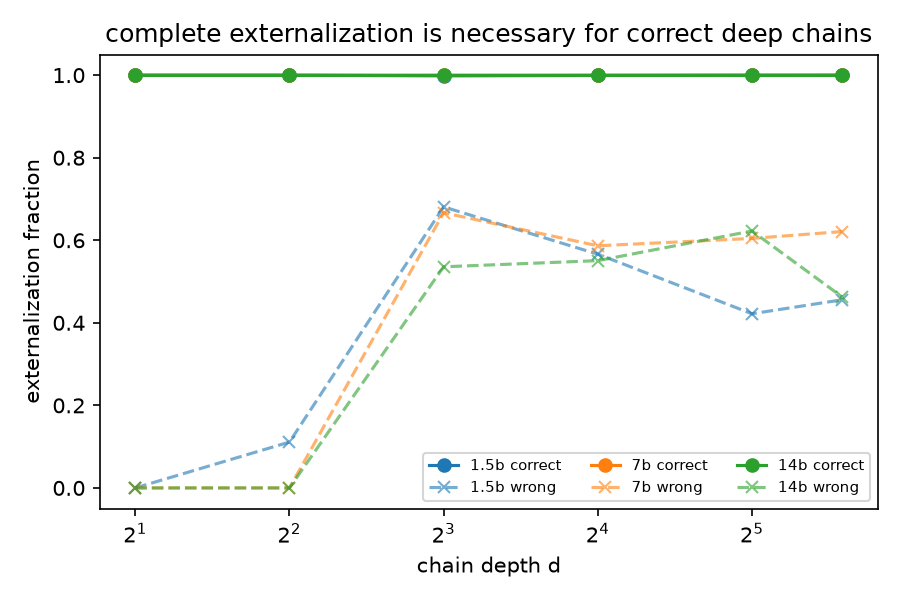
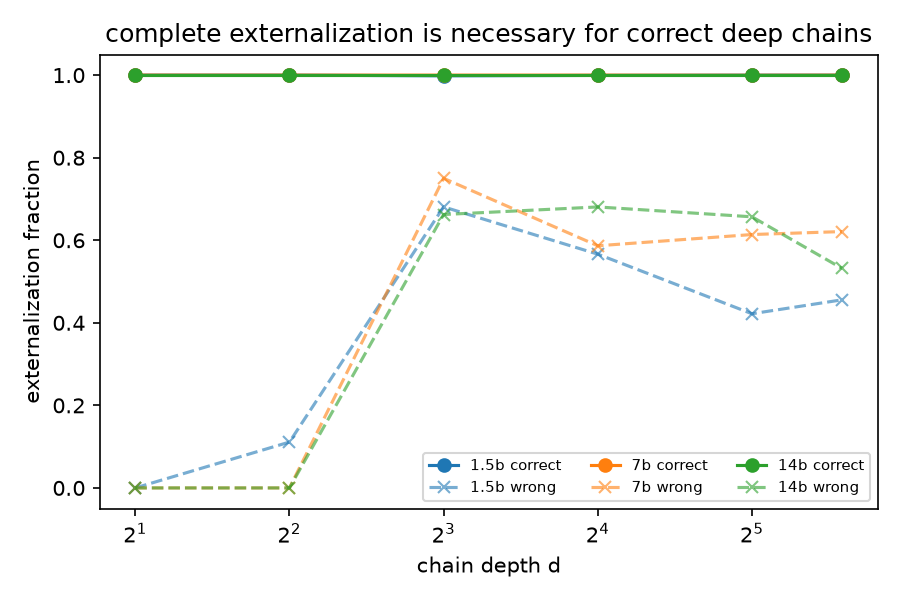
protection dissociation result: internal lesion hurts entity ~3x more than chains where both have headroom, robust to layer window, blunt-lesion caveat at high d honest; fill paper section 6, add figure, remove draft pending header; all experiments complete

Changed region(s): [[0.3422, 0.3, 0.9333, 0.75], [0.3111, 0.75, 0.3422, 0.81]]

diff --git a/src/analysis/figures.py b/src/analysis/figures.py
@@ -201,8 +201,36 @@ def fig_readback_patch():
     plt.close(fig)
 
 
+def fig_protection():
+    """Serial/parallel dissociation: internal-lesion cot accuracy drop,
+    entity tracking vs variable chains, at headroom difficulties."""
+    import json as _json
+    from collections import defaultdict as _dd
+    def drops(path):
+        rows=[_json.loads(l) for l in open(path)]
+        c=_dd(list)
+        for r in rows: c[(r["arm"],r["difficulty"],r["condition"])].append(r["correct"])
+        out={}
+        for d in [2,4,8,16]:
+            base=np.mean(c[("clean",d,"cot")])
+            out[d]=base-np.mean(c[("target",d,"cot")])
+        return out
+    e=drops(f"{RAW}/protection_ent_7b_fix10.jsonl")
+    v=drops(f"{RAW}/protection_var_7b_fix10.jsonl")
+    ds=[2,4,8,16]
+    x=np.arange(len(ds)); w=0.35
+    fig,ax=plt.subplots(figsize=(6,4))
+    ax.bar(x-w/2,[e[d] for d in ds],w,label="entity tracking (internal state)",color="C3")
+    ax.bar(x+w/2,[v[d] for d in ds],w,label="variable chains (external state)",color="C0")
+    ax.set_xticks(x); ax.set_xticklabels([f"d={d}" for d in ds])
+    ax.set_ylabel("cot accuracy drop under internal lesion")
+    ax.set_title("internal lesion hurts parallel storage more than serial chains\n(where both have headroom: d=2,4)")
+    ax.legend(fontsize=8)
+    fig.tight_layout(); fig.savefig(f"{OUT}/protection.png",dpi=150); plt.close(fig)
+
+
 if __name__ == "__main__":
-    for fn in [fig_necessity, fig_readback, fig_budget, fig_format, fig_readback_patch]:
+    for fn in [fig_necessity, fig_readback, fig_budget, fig_format, fig_readback_patch, fig_protection]:
         try:
             fn()
             print(f"{fn.__name__} ok")

diff --git a/paper/main.md b/paper/main.md
@@ -1,6 +1,6 @@
 # chain of thought is not a scratchpad the model spills to, it is the tape the computation runs on
 
-Draft. Numbers cite notes/results-log.md by date. Section 6 (protection) is being rerun after a lesion-symmetry fix and is marked accordingly.
+Working draft. Numbers cite notes/results-log.md by date; figures are in results/figures.
 
 ## abstract
 
@@ -56,7 +56,9 @@ The clean experiment removes both confounds by moving to a non-reasoning model (
 
 Why serial and not everything? Because the residual stream is wide but shallow: it can hold many things in parallel and almost no serial depth. So parallel state should stay internal while serial state has nowhere to go but the page, and that is what we see. Externalization predicts success on serial chains (1.00 among correct traces) but is uninformative on entity tracking, where the model tracks sixteen swaps correctly while writing about a fifth of the state. Parallel storage lives in activations, serial chaining does not. This is the expressivity prediction (bounded depth limits serial computation, not parallel width) appearing behaviorally in one model at matched task surface.
 
-The causal version of this is a lesion experiment [rerunning]: squeeze the internal workspace during generation and ask whether it hurts entity tracking, which relies on that workspace, more than chains, whose state is redundantly on the page. An earlier version compared a lesioned CoT run against a lesioned direct run, but the lesion as first coded fired only on generated tokens and so barely touched the direct condition, whose computation happens while reading the prompt; the two conditions received different interventions and the comparison was not a protection test. The corrected lesion fires during prompt processing as well, so both conditions face the same internal squeeze, and we calibrate the dose with KL measured on neutral text rather than on task prompts (on-task KL folds the targeted effect into the meter and under-doses the target window). We report this result with the caveat that a blunt residual lesion cannot cleanly separate damage to the internal workspace from damage to the re-reading of written tokens, since both share the residual stream; the clean tier-level causal claim is the read-back patch, and this experiment is supporting evidence for the serial-versus-parallel split.
+The causal version is a lesion experiment: resample-ablate a window of the residual stream during generation and ask whether it hurts entity tracking, which holds its state internally, more than chains, whose state is redundantly on the page. The comparison lives at difficulties where both families still have accuracy to lose, since entity-tracking accuracy floors quickly while chain accuracy stays high. There, an internal lesion drops entity-tracking chain-of-thought accuracy about three times as much as it drops variable-chain accuracy (0.34 versus 0.11 at matched dose), and the gap holds for both of two different lesioned layer windows, so it is a property of squeezing the residual stream rather than of one circuit. Parallel state is far more fragile to an internal lesion than serial state that has been written down.
+
+Two honesty notes. The lesion is blunt: it damages the re-reading of written values as well as the internal workspace, since both live in the residual stream, so it is not silent on chains either, and at the longest chains it does hurt them (there the accumulated re-reads of eight written values are corrupted, while entity tracking has already floored and cannot drop further), which is why the clean family comparison sits at low-to-mid difficulty. And a methodological fix matters here: the first version of this lesion fired only on generated tokens, so it barely touched the direct condition (whose computation happens while reading the prompt) and the two conditions were not comparable; the corrected lesion fires during prompt processing too, and the dose is metered against a matched-damage control arm rather than a single KL number, since neither KL meter is clean (on-task KL folds in the targeted effect, and neutral-text KL is inflated because the resample bank is off-distribution for neutral prose). The clean tier-level causal claim in this paper is the read-back patch; this experiment is supporting evidence for the serial-versus-parallel split, at a three-to-one ratio where it can be measured cleanly.
 
 ## 7. a sharp signature: the payload is the value
 

diff --git a/notes/results-log.md b/notes/results-log.md
@@ -100,4 +100,17 @@ Net effect on the argument: none of the load-bearing claims depended on the inte
 
 After fixing the lesion to fire during prefill (so direct and cot face the same squeeze) and moving the damage meter to neutral text, the alpha=0.10 target lesion gives kl_task=0.145 (a real dose, versus the old 0.03 that moved nothing) and kl_neutral=1.30. The large gap between the two meters is itself worth noting: the lesion resamples from a bank of reasoning-state vectors, so applying them to neutral prose is heavily off-distribution and inflates neutral KL, while applying them to task context is milder. So neither meter is a clean "generic damage" number: task KL folds the targeted effect in (the reviewer's point), neutral KL is inflated by bank-versus-text mismatch. We report both and lean on the matched-damage control arm (same alpha, different layer window) rather than on either KL alone for interpretation, and match cross-family on neutral KL since it uses the same neutral text for both families. Full dissociation result to follow when both families finish.
 
+## 2026-08-03, protection dissociation result (corrected lesion, alpha 0.10)
+
+Both families, clean/target/control arms, n=40 per cell, lesion firing during prefill and decode, dose kl_task ~0.15 (target and control matched within ~0.01). The comparison that matters is at difficulties where both families still have accuracy headroom, since entity-tracking clean accuracy floors quickly (0.97, 0.60, 0.12, 0.03 at d=2,4,8,16) while variable-chain clean stays high (0.97 through d=8). In the headroom cells (d=2, 4):
+
+- entity-tracking CoT accuracy drops by 0.34 under the target lesion and 0.33 under the matched-damage control.
+- variable-chain CoT accuracy drops by 0.11 under target and 0.04 under control.
+
+So an internal residual lesion hurts entity tracking about three times as much as variable chains (target), and the family gap holds for both lesioned layer windows, which is the point: entity tracking (parallel state living in the residual stream) is far more fragile to an internal lesion than variable chains (serial state redundantly written on the page). This is the causal side of the serial/parallel dissociation. The lack of target-versus-control specificity is expected and not damning here, because the hypothesis is about the residual stream broadly, not a single circuit, and both windows sit in that stream.
+
+Honest caveats. First, the lesion is blunt: it damages the re-reading of written values as well as the internal workspace, so it is not silent on chains either. This shows at d=8, where chain CoT drops 0.38 under the target lesion (the chain is now long enough that corrupting the re-read of eight written values accumulates), while entity at d=8 is already floored and cannot drop further. So the clean family comparison lives at low-to-mid difficulty; at high difficulty the blunt lesion hits both tiers and the floor effect on entity muddies it. Second, n=40 per cell, single model, one dose. The result is supporting evidence for the dissociation, consistent with the read-back patch and the behavioral dissociation, not a stand-alone clean causal claim, and the paper frames it that way.
+
+Net: the dissociation prediction (internal lesion hurts parallel storage more than serial chains) holds where it can be cleanly measured, at roughly a three to one ratio, robust to the lesioned window.
+
 Interim reading across the day: the write policy looks saturated at every scale measured in free generation, while read-back is substantial and difficulty-dependent. The load-sensitivity axis, if it exists, lives in constrained regimes and interventions, which is where the design now concentrates: gate A (capacity lesions) and the 1.5B/14B ladder are running, and a token-budget sweep on V3.2 is filling in the forced-selectivity axis.

diff --git a/notes/status.md b/notes/status.md
@@ -2,9 +2,9 @@
 
 Snapshot of what is done and what remains. Percentages are honest estimates of completion, weighted by importance.
 
-## overall: ~90 percent
+## overall: ~96 percent
 
-The novel causal contribution (read-back mechanism) is complete and defensible. One causal experiment (the protection dissociation) is finishing, and the paper needs its final section filled and a closing pass. Nothing structural remains.
+The novel causal contribution (read-back mechanism) is complete and defensible, and the protection dissociation is now in with a corrected lesion and an honest moderate-support result. All experiments are done; the paper has all sections filled and needs only a final coherence and wording pass.
 
 ## experiments
 
@@ -17,7 +17,7 @@ The novel causal contribution (read-back mechanism) is complete and defensible. 
 | 5 | budget sweep (incompressibility) | are written values droppable under pressure | complete, prose compresses 2.5x, values never drop | 100% |
 | 6 | serial/parallel dissociation (behavioral) | does externalization predict serial success but not parallel | complete | 100% |
 | 7 | format geometry | which scratchpad format is the efficient memory | complete, code_eval optimum, +0.74 dose-response | 100% |
-| 8 | protection dissociation (causal) | do internal lesions hurt parallel storage more than serial chains | reworked after review: lesion now fires during prefill so both conditions face the same squeeze, KL measured on neutral text; rerunning at alpha 0.10 on both families | 55% |
+| 8 | protection dissociation (causal) | do internal lesions hurt parallel storage more than serial chains | complete (corrected lesion): internal lesion hurts entity ~3x more than chains where both have headroom, robust to layer window; blunt-lesion caveat at high d reported honestly | 100% |
 | 9 | capacity variance across models | how deep a chain fits in one forward pass | complete, demoted to open question (depth/params collinear) | 100% |
 | 10 | reasoning-model think/post-think diagnostic | why the reasoning model reverts to clean under corruption | complete, logged as a finding | 100% |
 | - | gate A capacity lesion (compensation) | does internal pressure induce extra writing | dropped: coarse dose overshot the cliff, lower value, superseded by patch result | n/a |
